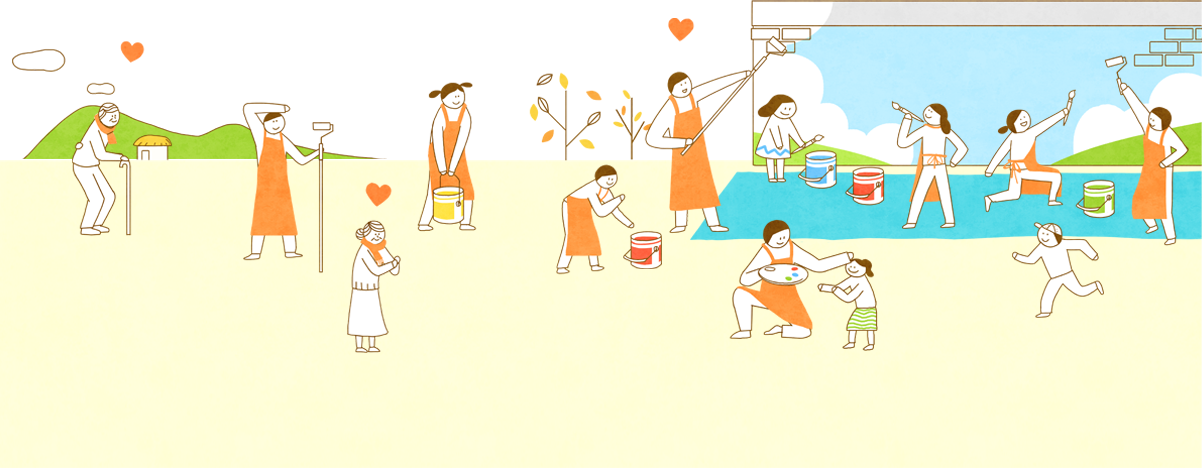
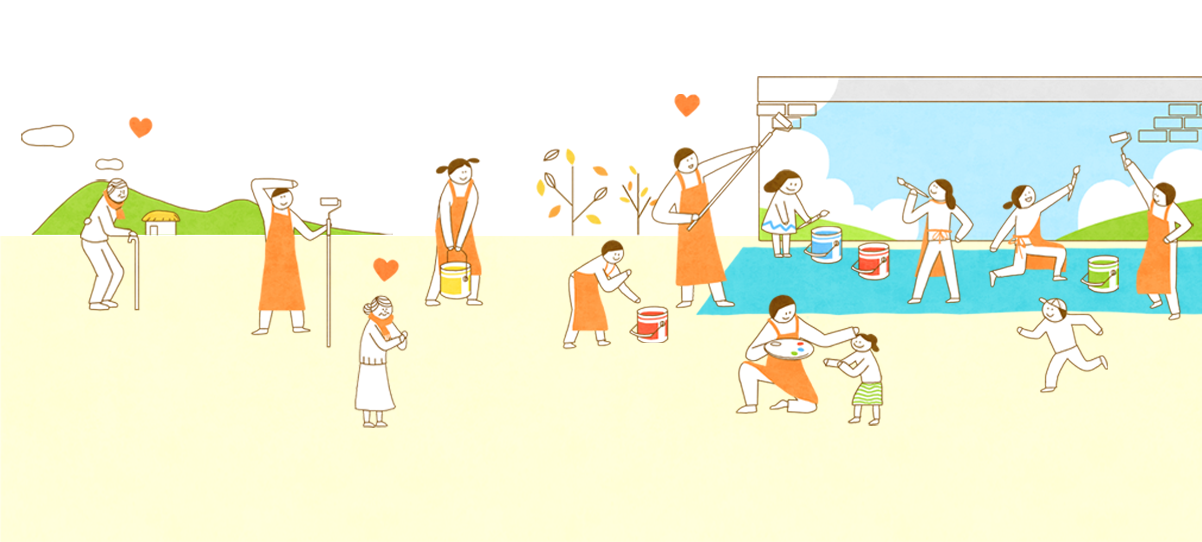
css res

diff --git a/patis/src/main/webapp/assets/css/NM020361Res.css b/patis/src/main/webapp/assets/css/NM020361Res.css
@@ -1,23 +1,153 @@
 @charset "utf-8";
 
 @media screen and (max-width: 767px) {
-  .sub-container {
-    width: 90%;
-    margin: 50px auto;
+  .sub1-main-content p {
+    margin: 10px;
+    font-size: 16px;
+    text-align: center;
+    color: #707070;
   }
-  .subHead {
-    display: flex;
-    flex-direction: column;
-    width: 100%;
-    align-items: center;
-    border-bottom: 1px solid #dedede;
-    padding-bottom: 10px;
-  }
-  .subTitle {
-    font-size: 30px;
+  .sub-goal {
+    writing-mode: vertical-rl;
+    -webkit-writing-mode: vertical-rl;
+    font-size: 22px;
     font-weight: bold;
-    margin: 15px;
+    text-align: center;
+    display: flex;
+    justify-content: center;
+    align-items: center;
+    background-color: #f18d00;
   }
+  .sub-goal-content {
+    width: 85%;
+    height: 80px;
+    font-size: 22px;
+    font-weight: bold;
+    line-height: 80px;
+    color: #f18d00;
+    text-align: center;
+    border: 5px solid #f18d00;
+  }
+  .sub-vision {
+    writing-mode: vertical-rl;
+    -webkit-writing-mode: vertical-rl;
+    font-size: 22px;
+    font-weight: bold;
+    text-align: center;
+    display: flex;
+    justify-content: center;
+    align-items: center;
+    background-color: #227c39;
+  }
+  .sub-vision-content {
+    width: 85%;
+    height: 90px;
+    line-height: 1.7;
+    border: 5px solid #227c39;
+    font-size: 22px;
+    font-weight: bold;
+    color: #227c39;
+    text-align: center;
+  }
+  .sub-vision-none {
+    width: 10%;
+    height: 98px;
+    font-size: 22px;
+    font-weight: bold;
+    line-height: 88px;
+    text-align: center;
+  }
+  .sub-vision-content-desc {
+    font-size: 12px;
+    color: #707070;
+    text-align: center;
+    font-weight: normal;
+  }
+  .sub-illu-img {
+  display: block;
+  width: 100%;
+  height: 198px;
+  margin: 0 auto;
+  background-repeat:no-repeat;
+  background-position:center center;
+  background-image: url("/assets/images/image/sub-ill-banner-mo.png");
+}
+  .sub-main-handimg {
+  width: 150px;
+  height: 150px;
+  margin: 50px auto;
+  margin-top: 110px;
+  background-size: cover;
+  background-image: url("/assets/images/icons/ico_sub_01.png");
+}
+.propel-title {
+  font-size: 30px;
+  color: #ffffff;
+  line-height: 1.4;
+  text-align: center;
+  margin: 0 auto;
+  background-color: #373737;
+  width: 400px;
+  height: 44px;
+  border-radius: 50px;
+}
+.sub-main-propel:after {
+  content: "";
+  z-index: -3;
+  display: block;
+  position: absolute;
+  top: 2315px;
+  width: 90%;
+  height: 170px;
+  border: 1px solid #dedede;
+  border-radius: 50px;
+}
+
+.sub-plan-table thead tr th,
+.sub-status-table thead tr th {
+  font-size: 16px;
+}
+.sub-plan-table tbody tr td,
+.sub-status-table tbody tr td {
+  font-size: 12px;
+}
+.table-caption {
+  font-size: 14px;
+}
+.sub-history__year, .sub-history__year-green {
+  width: 80px;
+  height: 80px;
+  line-height: 80px;
+  text-align: center;
+  font-size: 24px;
+}
+.sub-history-line, .sub-history-line-green {
+    position: absolute;
+    width: 72%;
+    height: 5px;
+    margin-top: -55px;
+    margin-left: 85px;
+}
+.gray-line {
+  margin-left: 44px;
+  height: 550px;
+}
+.sub-history-content ul {
+  font-size: 15px;
+   margin-left: 70px;
+}
+.sub-history-content ul li:first-child {
+  margin: 0px 15px;
+}
+.sub-history-content ul li:last-child {
+    font-size: 14px;
+}
+.sub-status-title {
+  font-size: 16px;
+}
+.sub-status-img{
+	width:100%;
+}
 }
 @media screen and (min-width: 768px) and (max-width: 959px) {
 }

diff --git a/patis/src/main/webapp/assets/css/NM020361.css b/patis/src/main/webapp/assets/css/NM020361.css
@@ -5,9 +5,10 @@
 }
 .sub-illu-img {
   display: block;
-  width: 94%;
-  height: 448px;
+  width: 100%;
+  height: 543px;
   margin: 0 auto;
+  background-position:center center;
   background-image: url("/assets/images/image/sub-ill-banner.png");
 }
 .sub1-main-content p {
@@ -88,7 +89,7 @@
   width: 200px;
   height: 200px;
   margin: 50px auto;
-  margin-top: 200px;
+  margin-top: 110px;
   background-size: cover;
   background-image: url("/assets/images/icons/ico_sub_01.png");
 }
@@ -108,7 +109,7 @@
   z-index: -3;
   display: block;
   position: absolute;
-  top: 2915px;
+  top: 2680px;
   width: 70%;
   height: 170px;
   border: 1px solid #dedede;
@@ -179,6 +180,7 @@
 .sub-history {
   width: 100%;
   margin: 0 auto;
+  margin-bottom: 145px;
 }
 .gray-line {
   z-index: -3;

diff --git a/patis/src/main/webapp/assets/css/commonRes.css b/patis/src/main/webapp/assets/css/commonRes.css
@@ -18,6 +18,14 @@
     font-weight: bold;
     margin: 15px;
   }
+  .sub-main-title {
+    font-size: 22px;
+    color: #f18d00;
+    font-weight: bold;
+    margin-top: 70px;
+    margin-bottom: 70px;
+  }
+
 }
 @media screen and (min-width: 768px) and (max-width: 959px) {
 }

diff --git a/patis/src/main/webapp/assets/css/common.css b/patis/src/main/webapp/assets/css/common.css
@@ -31,7 +31,7 @@ body {
   font-size: 28px;
   color: #f18d00;
   font-weight: bold;
-  margin-top: 150px;
+  margin-top: 70px;
   margin-bottom: 70px;
 }
 .subTitle {
